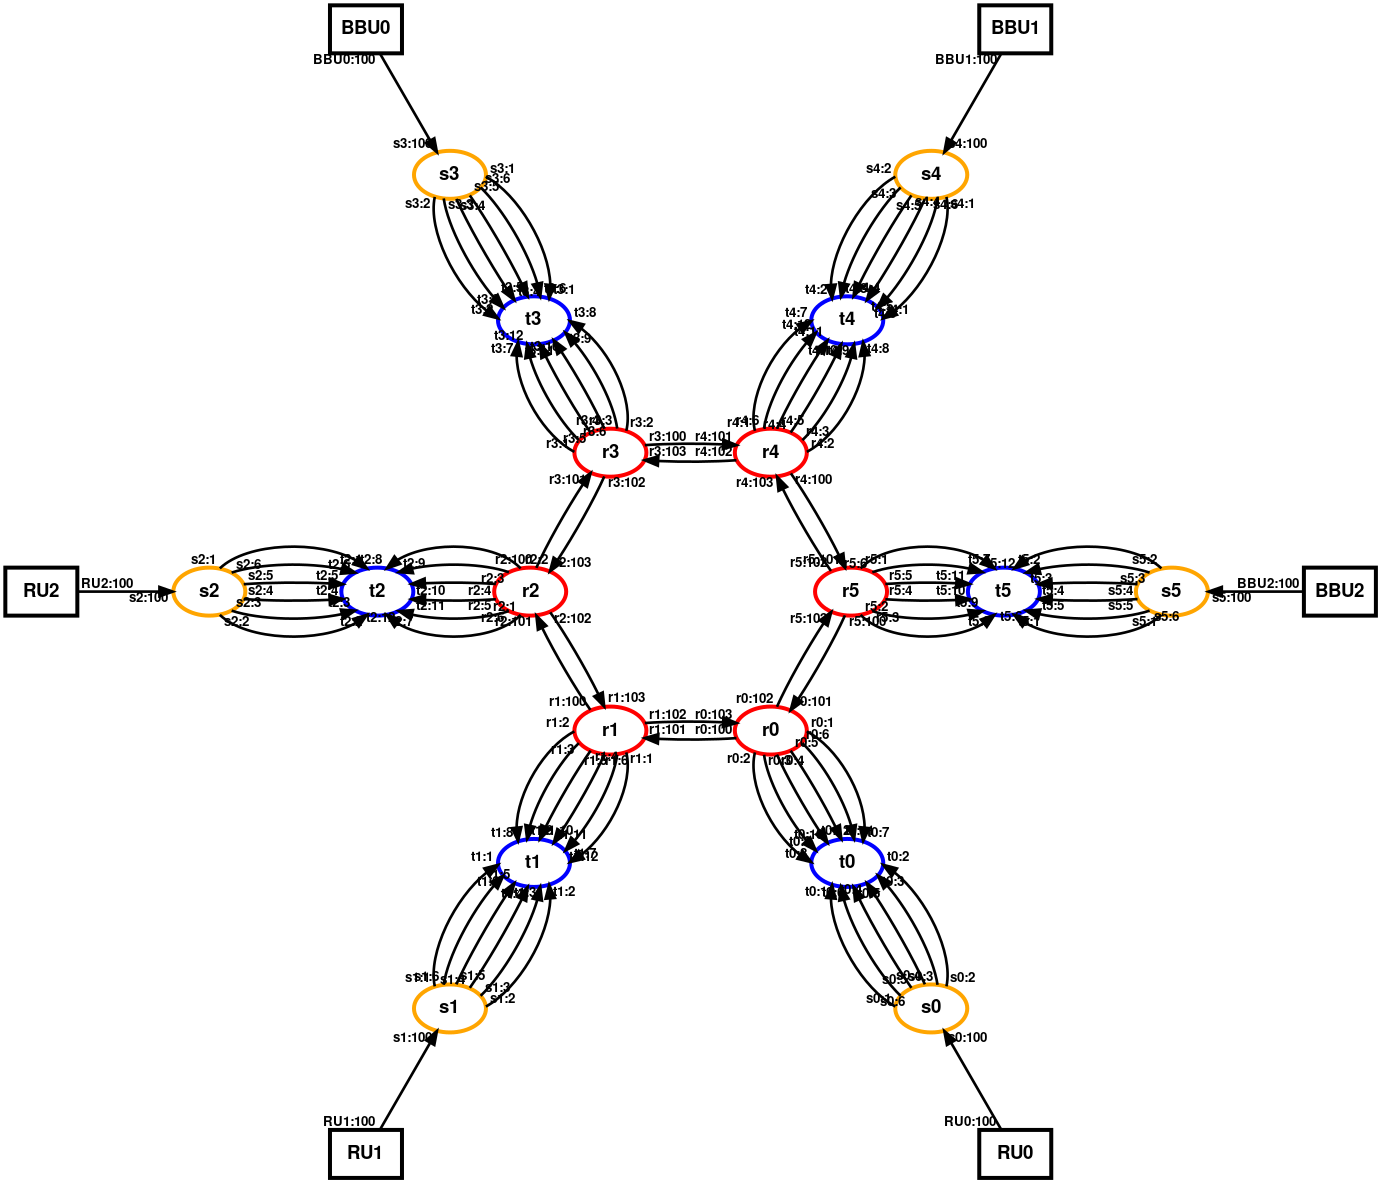
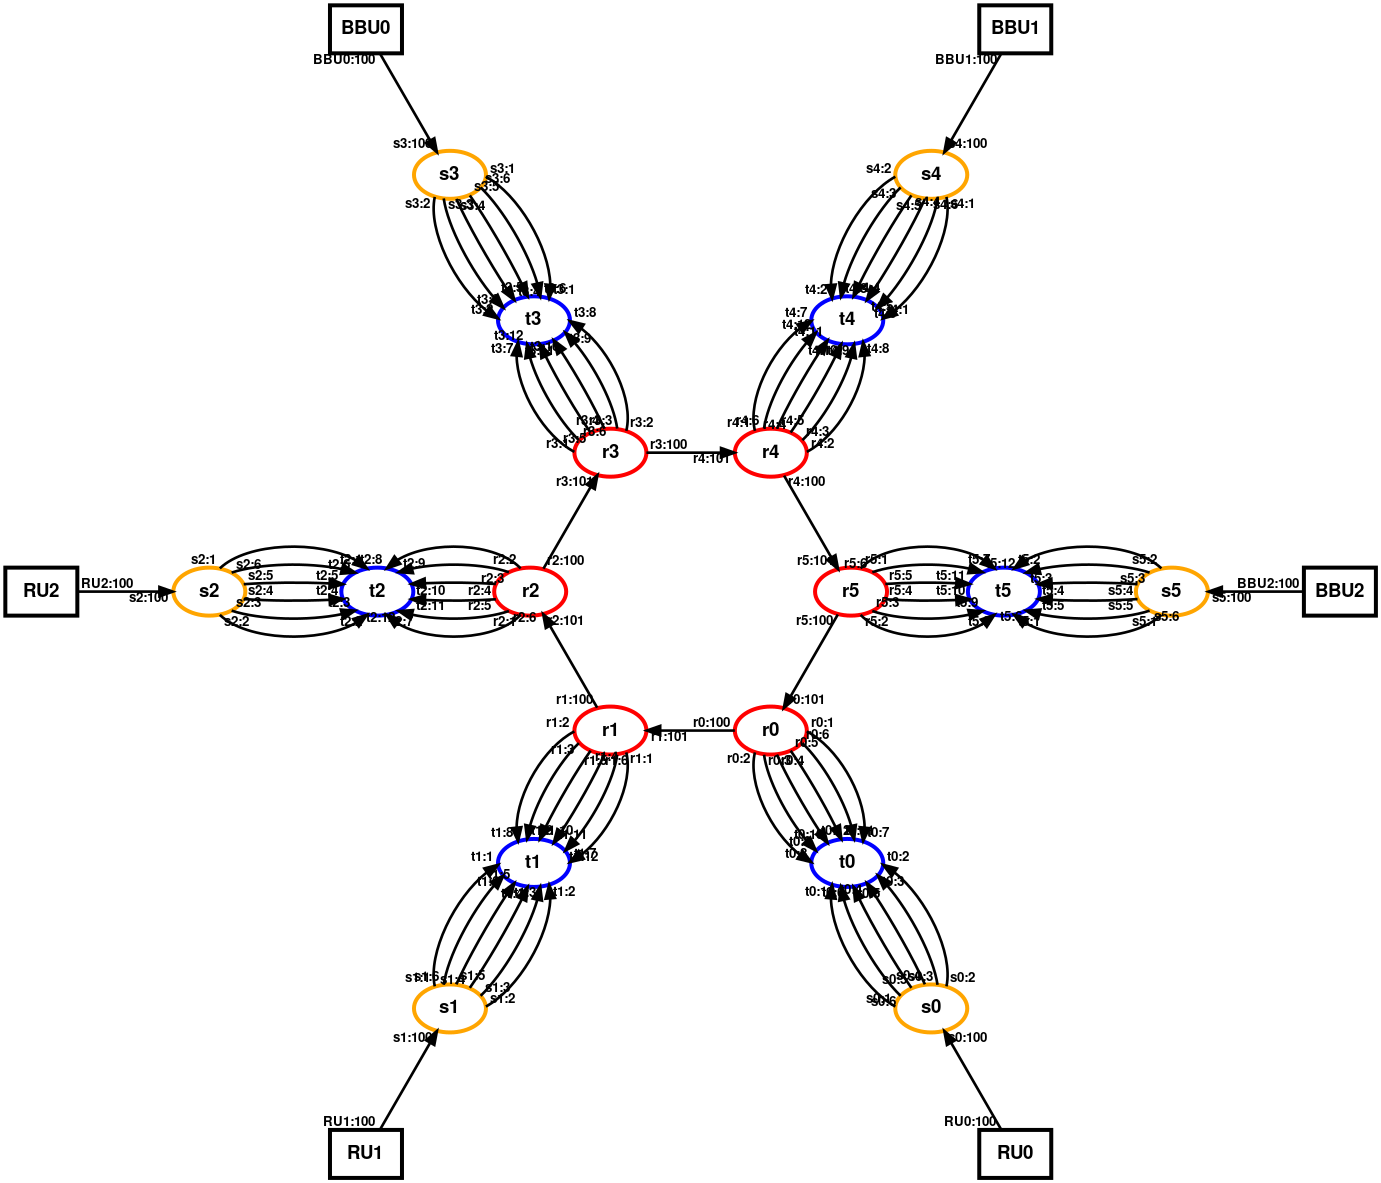
Added controller and topology generation files for network with two Unidirectional links between ROADMS for Six node ring topology

diff --git a/examples/config_sixNodeRingTopology_two_Unidirectional_roadm_links.py b/examples/config_sixNodeRingTopology_two_Unidirectional_roadm_links.py
@@ -62,7 +62,7 @@ def run( net, N=1 ):
     net.ports = fetchPorts( net, net.roadms + net.terminals + net.switches )
 
     # Calculate inter-pop routes
-    net.routes = { node: route( node, net.neighbors, net.terminals, net.roadmLinks, net.roadms )
+    net.routes = { node: route( node, net.neighbors, net.terminals)
                    for node in net.terminals }
 
     # Allocate N channels per endpoint pair
@@ -103,13 +103,13 @@ def run( net, N=1 ):
     countSignals( net.channelPairs, net.routes )
 
     # Monitor OSNR
-    print( '*** Monitoring OSNR...' )
-    failures = monitorOSNR( net )
-    reroutes = [ (channel, link)
-                 for _monitor, channel, link in failures ]
-
-    # Reroute (not yet implemented )
-    reroute( net, reroutes )
+    # print( '*** Monitoring OSNR...' )
+    # failures = monitorOSNR( net )
+    # reroutes = [ (channel, link)
+    #              for _monitor, channel, link in failures ]
+    #
+    # # Reroute (not yet implemented )
+    # reroute( net, reroutes )
 
 
 
@@ -200,32 +200,21 @@ def allocateChannels( terminals, N ):
 
 ### Routing (sorry Dijkstra, we don't need you)
 
-def route( src, neighbors, destinations, links, roadms ):
+def route( src, neighbors, destinations):
     """Route from src to destinations
        neighbors: adjacency list
        returns: routes dict"""
-    routes, seen, paths = {}, set( (src,) ), [ (src,) ]
+    routes, seen, paths = {}, set((src,)), [(src,)]
     while paths:
-        path = paths.pop( 0 )
-        lastNode = path[ -1 ]
-        for neighbor in neighbors[ lastNode ]:
-            if lastNode not in roadms or neighbor not in roadms:
-                if neighbor not in seen:
-                    newPath = (path + (neighbor,))
-                    paths.append(newPath)
-                    if neighbor in destinations:
-                        routes[neighbor] = newPath
-                    seen.add(neighbor)
-            else:
-                for neighborReachability in links:
-                    src1, dst1 = neighborReachability
-                    if src1 == lastNode and dst1 == neighbor:
-                        if neighbor not in seen:
-                            newPath = ( path + (neighbor, ) )
-                            paths.append( newPath )
-                            if neighbor in destinations:
-                                routes[ neighbor ] = newPath
-                            seen.add( neighbor)
+        path = paths.pop(0)
+        lastNode = path[-1]
+        for neighbor in neighbors[lastNode]:
+            if neighbor not in seen:
+                newPath = (path + (neighbor,))
+                paths.append(newPath)
+                if neighbor in destinations:
+                    routes[neighbor] = newPath
+                seen.add(neighbor)
     return routes
 
 
@@ -319,8 +308,20 @@ def installPath( path, channels, net):
         # This is a bit tricky. neighbors[node1] is a
         # dict of src:srcport, dst:dstport, so we
         # need to extract the dstport!!
-        port1 = net.neighbors[ node1 ][ roadm ]
-        port2 = net.neighbors[ node2 ][ roadm ]
+        if node1 not in net.roadms or roadm not in net.roadms:
+            port1 = net.neighbors[ node1 ][ roadm ]
+        else:
+            port1 = port3
+
+        if roadm not in net.roadms or node2 not in net.roadms:
+            port2 = net.neighbors[ node2 ][ roadm ]
+        else:
+            for link in net.roadmLinks:
+                src, dst = link
+                if roadm == src and node2 == dst:
+                    port2 = link[src]
+                    port3 = link[dst]
+        print("From ", node1, " - ", roadm, ": Port ", port1, "-> Port ", port2, " to ", node2)
         # For terminal nodes, use the proper channel port(s)
         if i == 1:
             ports1 = channelPorts( node1, net )
@@ -352,7 +353,7 @@ def installRoutes( net):
         if (src=='t0' and dst=='t3') or (src=='t1' and dst=='t4') or (src=='t2' and dst=='t5'):
             path = net.routes[src][dst]
             channels = net.pairChannels[ src, dst ]
-            installPath( path, channels, net )
+            installPath( path, channels, net)
 
             path = net.routes[dst][src]
             channels = net.pairChannels[dst, src]
@@ -384,6 +385,7 @@ def countSignals( channelPairs, routes):
     print("Average signal count = %.2f" % avgCount )
 
 
-if __name__ == '__main__':
+#if __name__ == '__main__':
+def sixNodeRing_two_Unidirectional_Roadm_link_controller():
     net = RESTProxy()
     run( net )

diff --git a/examples/sixNodeRingTopology_two_Unidirectional_roadm_links.py b/examples/sixNodeRingTopology_two_Unidirectional_roadm_links.py
@@ -11,8 +11,8 @@ or H3, depending on how the ROADM is configured.
 
 from dataplane import (Terminal, ROADM, OpticalLink, UnidirectionalOpticalLink as ULink,
                        OpticalNet as Mininet, km, m, dB, dBm)
-from examples.config_sixNodeRingTopology_Unidirectional_roadm_links import \
-    sixNodeRing_Unidirectional_Roadm_link_controller
+from examples.config_sixNodeRingTopology_two_Unidirectional_roadm_links import \
+    sixNodeRing_two_Unidirectional_Roadm_link_controller
 from rest import RestServer
 from ofcdemo.demolib import OpticalCLI as CLI
 
@@ -90,20 +90,20 @@ class sixNodeRingTopology(Topo):
             ###################For unidirectional Links########################################
             self.addLink(r1, r2, cls=ULink, port1=100, port2=101,
                          boost1=boost, spans=spans)
-            #
-            # if (i == 0):
-            #     r2 = roadms[len(roadms) - 1]
-            # else:
-            #     r2 = roadms[i - 1]
-            #
-            # self.addLink(r1, r2, cls=ULink, port1=102, port2=103,
-            #              boost1=boost, spans=spans)
+
+            if (i == 0):
+                r2 = roadms[len(roadms) - 1]
+            else:
+                r2 = roadms[i - 1]
+
+            self.addLink(r1, r2, cls=ULink, port1=102, port2=103,
+                         boost1=boost, spans=spans)
             # ###################For unidirectional Links########################################
 
             i = i + 1
 
 # Debugging: Plot network graph
-def plotNet(net, outfile="sixNodeRingTopology_v2.png", directed=False,):
+def plotNet(net, outfile="sixNodeRingTopology_v3.png", directed=False,):
     "Plot network graph to outfile"
     try:
         import pygraphviz as pgv
@@ -146,7 +146,7 @@ if __name__ == '__main__':
     net.start()
     restServer.start()
     plotNet(net,  directed=True)
-    sixNodeRing_Unidirectional_Roadm_link_controller()
+    sixNodeRing_two_Unidirectional_Roadm_link_controller()
     CLI(net)
     restServer.stop()
     net.stop()

diff --git a/examples/config_sixNodeRingTopology.py b/examples/config_sixNodeRingTopology.py
@@ -101,13 +101,13 @@ def run( net, N=1 ):
     countSignals( net.channelPairs, net.routes )
 
     # Monitor OSNR
-    print( '*** Monitoring OSNR...' )
-    failures = monitorOSNR( net )
-    reroutes = [ (channel, link)
-                 for _monitor, channel, link in failures ]
+    #print( '*** Monitoring OSNR...' )
+    #failures = monitorOSNR( net )
+    #reroutes = [ (channel, link)
+    #            for _monitor, channel, link in failures ]
 
     # Reroute (not yet implemented )
-    reroute( net, reroutes )
+    #reroute( net, reroutes )
 
 
 
@@ -301,6 +301,7 @@ def installPath( path, channels, net):
         # need to extract the dstport!!
         port1 = net.neighbors[ node1 ][ roadm ]
         port2 = net.neighbors[ node2 ][ roadm ]
+        print("From ", node1, " - ", roadm, ": Port ", port1, "-> Port ", port2, " to ", node2)
         # For terminal nodes, use the proper channel port(s)
         if i == 1:
             ports1 = channelPorts( node1, net )
@@ -360,6 +361,7 @@ def countSignals( channelPairs, routes):
     print("Average signal count = %.2f" % avgCount )
 
 
-if __name__ == '__main__':
+#if __name__ == '__main__':
+def six_node_topo_controller():
     net = RESTProxy()
     run( net )

diff --git a/examples/sixNodeRingTopology.py b/examples/sixNodeRingTopology.py
@@ -11,6 +11,7 @@ or H3, depending on how the ROADM is configured.
 
 from dataplane import (Terminal, ROADM, OpticalLink, UnidirectionalOpticalLink as ULink,
                        OpticalNet as Mininet, km, m, dB, dBm)
+from examples.config_sixNodeRingTopology import six_node_topo_controller
 from rest import RestServer
 from ofcdemo.demolib import OpticalCLI as CLI
 
@@ -101,7 +102,7 @@ class sixNodeRingTopology(Topo):
             i = i + 1
 
 # Debugging: Plot network graph
-def plotNet(net, outfile="sixNodeRingTopology.png", directed=False,):
+def plotNet(net, outfile="sixNodeRingTopology_v1.png", directed=False,):
     "Plot network graph to outfile"
     try:
         import pygraphviz as pgv
@@ -144,6 +145,7 @@ if __name__ == '__main__':
     net.start()
     restServer.start()
     plotNet(net,  directed=False)
+    six_node_topo_controller()
     CLI(net)
     restServer.stop()
     net.stop()

diff --git a/examples/config_sixNodeRingTopology_Unidirectional_roadm_links.py b/examples/config_sixNodeRingTopology_Unidirectional_roadm_links.py
@@ -320,6 +320,7 @@ def installPath( path, channels, net):
         # need to extract the dstport!!
         port1 = net.neighbors[ node1 ][ roadm ]
         port2 = net.neighbors[ node2 ][ roadm ]
+        print("From ", node1, " - ", roadm, ": Port ", port1, "-> Port ", port2, " to ", node2)
         # For terminal nodes, use the proper channel port(s)
         if i == 1:
             ports1 = channelPorts( node1, net )
